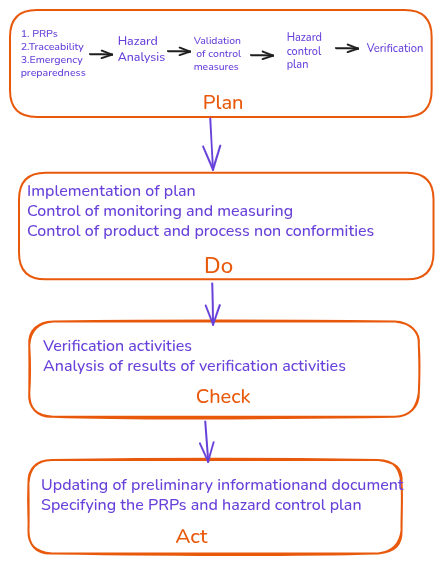
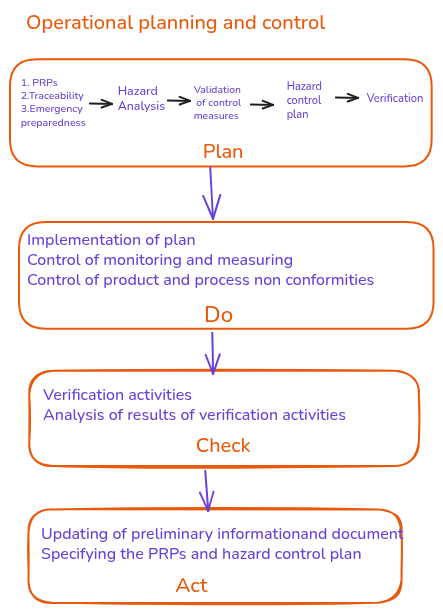
26nov

Changed region(s): [[0.0, 0.0, 0.9977, 0.9964]]

diff --git a/assets/grid.css b/assets/grid.css
@@ -1,53 +1,160 @@
+/* Grid container */
 .grid-container {
+  max-width: 1200px;
+  /* margin: 0 auto; */
   display: grid;
-  /* Auto-places items into columns that are at least 150px wide but stretch to fill the space */
-  grid-template-columns: repeat(auto-fit, minmax(150px, 1fr));
-  gap: 1rem; /* Use Pico's spacing for gaps */
-}
-
-@media (min-width: 992px) {
-  .grid-container {
-    /* Increase the minimum width of columns on larger screens */
-    grid-template-columns: repeat(auto-fit, minmax(350px, 1fr));
-  }
-}
-
-
-.grid-item {
-  display: flex;
-  flex-direction: column;
-  align-items: center;
-  text-align: center;
+  grid-template-columns: 1fr;
+  gap: 1.0rem;
   padding: 1rem;
-  text-decoration: none;
-  border: 1px solid var(--pico-muted-border-color); /* Use Pico variables */
-  border-radius: var(--pico-border-radius);
-  transition: transform 0.2s;
 }
 
+/* Grid item (card) */
+.grid-item {
+  background: var(--pico-card-background-color);
+  border-radius: var(--pico-border-radius);
+  padding: 1.5rem;
+  text-decoration: none;
+  display: flex;
+  align-items: center;
+  gap: 1.5rem;
+  box-shadow: var(--pico-card-box-shadow);
+  transition: all 0.3s cubic-bezier(0.4, 0, 0.2, 1);
+  position: relative;
+  overflow: hidden;
+  border: var(--pico-border-width) solid var(--pico-card-border-color);
+}
 
+.grid-item::before {
+  content: '';
+  position: absolute;
+  top: 0;
+  left: 0;
+  width: 4px;
+  height: 100%;
+  background: var(--pico-primary);
+  transform: scaleY(0);
+  transition: transform 0.3s ease;
+}
 
 .grid-item:hover {
-  transform: scale(1.05);
+  transform: translateY(-4px);
+  box-shadow: 0 12px 24px rgba(0, 0, 0, 0.15), 0 20px 40px rgba(0, 0, 0, 0.1);
+  border-color: var(--pico-primary);
+  background: var(--pico-card-background-color);
 }
 
+.grid-item:hover::before {
+  transform: scaleY(1);
+}
+
+.grid-item:active {
+  transform: translateY(-2px);
+}
+
+/* Image styling */
 .grid-item img {
   width: 64px;
   height: 64px;
-  object-fit: cover;
-  margin-bottom: 0.5rem;
+  object-fit: contain;
+  flex-shrink: 0;
+  opacity: 0.95;
+  transition: transform 0.3s ease, opacity 0.3s ease;
 }
 
-@media (min-width: 992px) {
-  .grid-item img {
-   width: 120px;
-  height: 120px;
-  object-fit: cover;
-  margin-bottom: 1rem;
-  }
+.grid-item:hover img {
+  transform: scale(1.1) rotate(5deg);
+  opacity: 1;
+}
+
+/* Text container */
+.grid-item > span {
+  display: block;
+}
+
+.clauseN0 {
+  font-size: 1rem;
+  font-weight: 700;
+  color: var(--pico-primary);
+  text-transform: uppercase;
+  letter-spacing: 0.5px;
+  margin-bottom: 0.25rem;
+  opacity: 0.9;
 }
 
 .clauseName {
-  font-weight: bold;
-   font-size: 1.1rem;
+  font-size: 1.5rem;
+  font-weight: 700;
+  color: var(--pico-color);
+  line-height: 1.4;
+  letter-spacing: -0.01em;
+}
+
+/* Tablet and up (2 columns) */
+@media (min-width: 768px) {
+  .grid-container {
+    grid-template-columns: repeat(2, 1fr);
+    gap: 2rem;
+    padding: 2rem;
+  }
+  
+  .grid-item {
+    padding: 2rem;
+  }
+  
+  .grid-item img {
+    width: 50px;
+    height: 50px;
+  }
+  
+  .clauseName {
+    font-size: 1.25rem;
+  }
+}
+
+/* Large desktop */
+@media (min-width: 1200px) {
+  .grid-container {
+    gap: 2.5rem;
+  }
+}
+
+/* Focus styles for accessibility */
+.grid-item:focus {
+  outline: var(--pico-outline-width) solid var(--pico-primary);
+  outline-offset: 2px;
+}
+
+/* Animation on page load */
+@keyframes fadeInUp {
+  from {
+    opacity: 0;
+    transform: translateY(20px);
+  }
+  to {
+    opacity: 1;
+    transform: translateY(0);
+  }
+}
+
+.grid-item {
+  animation: fadeInUp 0.6s ease backwards;
+}
+
+.grid-item:nth-child(1) { animation-delay: 0.05s; }
+.grid-item:nth-child(2) { animation-delay: 0.1s; }
+.grid-item:nth-child(3) { animation-delay: 0.15s; }
+.grid-item:nth-child(4) { animation-delay: 0.2s; }
+.grid-item:nth-child(5) { animation-delay: 0.25s; }
+.grid-item:nth-child(6) { animation-delay: 0.3s; }
+.grid-item:nth-child(7) { animation-delay: 0.35s; }
+.grid-item:nth-child(8) { animation-delay: 0.4s; }
+.grid-item:nth-child(9) { animation-delay: 0.45s; }
+.grid-item:nth-child(10) { animation-delay: 0.5s; }
+.grid-item:nth-child(11) { animation-delay: 0.55s; }
+
+/* Dark theme adjustments */
+@media (prefers-color-scheme: dark) {
+  .grid-item:hover {
+    box-shadow: 0 12px 24px rgba(0, 0, 0, 0.3), 0 20px 40px rgba(0, 0, 0, 0.2);
+  }
 }

diff --git a/_layouts/grid.html b/_layouts/grid.html
@@ -6,13 +6,24 @@ layout: home
 <section class="grid-container"> 
   
   {% for i in (0..10) %}
-  
-    <a href="contentFiles/intro.html" class ="grid-item">    
+  {% if i == 0 %}
+    <a href="{{page.navurls[i]}}" class ="grid-item">    
        
           <img src="{{ page.urls[i] }}" alt="image">
-          <span class = "clauseName">{{ page.items[i] }}</span>      
-      
-    </a>
-    
-  {% endfor %}
+          <span class = "clauseName">{{ page.items[i] }}</span>   
+         </a>
 
+         {% else %}
+    
+  <a href="{{page.navurls[i]}}" class ="grid-item">    
+       
+          <img src="{{ page.urls[i] }}" alt="image">
+           <span class = "clauseN0"> Clause :{{ i }}</span>   
+
+          <span class = "clauseName">{{ page.items[i] }}</span>   
+         </a>
+  
+  {% endif %}
+         {% endfor %}
+
+</section>

diff --git a/_layouts/default.html b/_layouts/default.html
@@ -57,9 +57,9 @@
       margin: 0 auto;
     } */
      main.container ol {
-      padding-left: 0rem;       /* smaller than browser default (~40px) */
+      padding-left: 1rem;       /* smaller than browser default (~40px) */
       margin-left: 0;
-      list-style-position: outside;
+      /* list-style-position: outside; */
     }
 
     

diff --git a/contentFiles/intro.md b/contentFiles/intro.md
@@ -2,7 +2,11 @@
 layout : page
 title : Introduction
 ---
-This is introduction
+ISO 22000 establishes requirements for a Food Safety Management System to help organizations in the food chain identify and control food safety hazards, ensuring food is safe for consumption.   
+It applies to all types and sizes of food-related businesses and combines communication, prerequisite programs, and HACCP principles within a management system aligned with ISO’s structure.   
+The standard uses the PDCA approach to support continual improvement and consistent hazard control.
+The key points as described in standard are given below.
+
 
 1. ##### General 
 The benefits of adopting this standard to organisations are
@@ -33,6 +37,14 @@ The PDCA cycle can be described briefly as follows:
 - Check: monitor and (where relevant) measure processes and the resulting products and services,analyse and evaluate information and data from monitoring, measuring and verification activities, and report the results;
 - Act:take actions to improve performance, as necessary.
 In this standard PDCA cycle works at two levels.
-- Overall pdca cycle
-- PDCA cycle specific to clause 8 
-![pdca1](../images/pdca1.png  "Overall PDCA")
+ Overall pdca cycle and  PDCA cycle specific to clause 8 .
+    <figure> 
+    <img src = "../images/pdca1.png" style = "max-width : 90%; height :auto" >
+    <figcaption> Overall PDCA </figcaption>
+    </figure>
+    - - - 
+    <!-- ![pdca1](../images/pdca1.png  "Overall PDCA") -->
+    <figure> 
+    <img src = "../images/pdca2.png" style = "max-width : 100%; height :auto" >
+    <figcaption> Operations PDCA </figcaption>
+    </figure>
